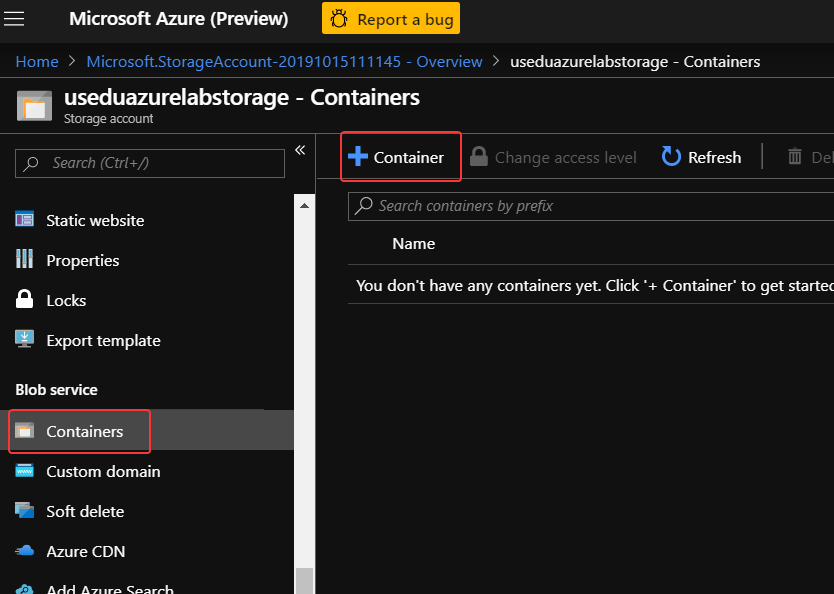
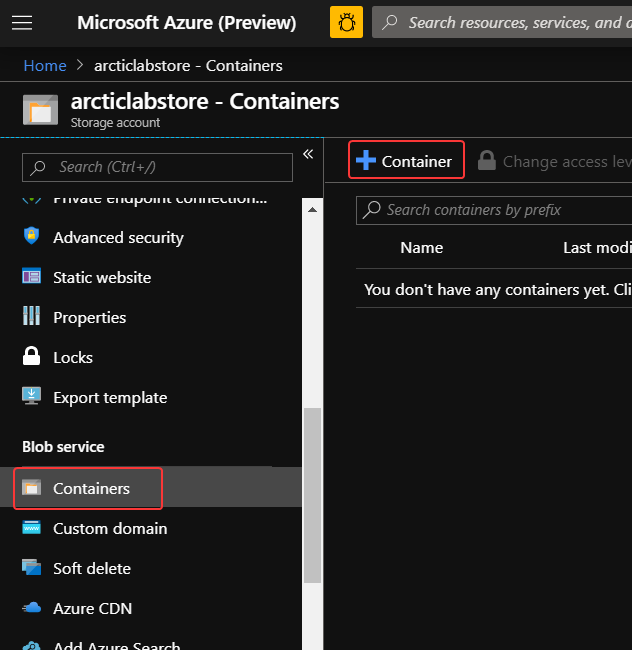
updating screenshots

diff --git a/ai-and-iot/create-a-storage-account.md b/ai-and-iot/create-a-storage-account.md
@@ -27,7 +27,7 @@ Azure Resources Groups are logical collections of Azure resources (e.g virtual m
 
 A general-purpose v2 storage account provides access to all of the Azure Storage services: blobs, files, queues, and tables. The quickstart creates a general-purpose v2 storage account but, the steps to create any type of storage account are similar.
 
-Storage account names must be unique, so make sure to replace "*useduazurelabstorage*" with a unique name.
+Storage account names must be unique, so make sure to replace "*arcticlabstore*" with a unique name.
 
 1. In the [Azure Portal](https://portal.azure.com), click the **+Create a resource** link at the top left of the page.
 1. In the Search field, type *Storage* and click on **Storage Account** that appears in the drop down list and click **Create.**
@@ -46,14 +46,12 @@ Storage account names must be unique, so make sure to replace "*useduazurelabsto
 
     ![Select Azure Resource Group](media/storage-3.png)
 
-1. Finally, also copy and paste the name of your storage account (e.g. *useduazurelabstorage*) into your text editor.
+1. Also copy and paste the name of your storage account (e.g. *arcticlabstore*) into your text editor.
 
 
 
 ## 3. Create a Blob container
 Before you can upload images to a storage account, you must create a blob container to store them in.
-1. Once the deployment of your storage account is complete, click the **Go to resource** button.
-![Go to your storage account](media/storage-4.png)
 1. From Storage Account overview, click on **Containers** in the left-hand blade, then click on the **+ Container** link. 
 ![Add a new container](media/storage-5.png)
 1. Enter in **photos** for the container name and set *Public access level* to **Blob (anonymous read access for blobs only)**. Then, click **OK**

diff --git a/ai-and-iot/connect-stream-analytics.md b/ai-and-iot/connect-stream-analytics.md
@@ -6,9 +6,10 @@ Now that we have our IoT hub connected to the blob container, let's connect a St
     ![Select Stream Analytics](media/connect-stream-analytics-1.png)
 
 1. Fill out the Stream Analytics Job deployment screen appropriately and click on **Create**
+
     | Field | Suggested Value  |
     |------|------|
-    |Job name |```polar-bear-analytics```|
+    |Job name |```arctic-analytics```|
     |Subscription |Your Azure Subscrription|
     |Resource Group |The resource group you're using for this lab.|
     |Location |Use the location nearest you.|
@@ -17,7 +18,7 @@ Now that we have our IoT hub connected to the blob container, let's connect a St
 
     ![Deploy Stream Analytics](media/connect-stream-analytics-2.png)
 
-1. Open the **polar-bear-analytics** Stream Analytics job in the portal. If the Stream Analytics job doesn't appear in the resource group, click the **Refresh** button at the top of the view until it does.
+1. Open the **arctic-analytics** Stream Analytics job in the portal. If the Stream Analytics job doesn't appear in the resource group, click the **Refresh** button at the top of the view until it does.
 1. Click **Inputs** in the left-side menu.
 1. Select **Add stream input > IoT Hub** to add an input to the Stream Analytics job.
 

diff --git a/ai-and-iot/create-azure-service-bus.md b/ai-and-iot/create-azure-service-bus.md
@@ -28,7 +28,7 @@ We will use an Azure Service Bus Queue as an Output for our Stream Analytics IoT
 
     ![Service Bus Form](media/service-bus-4.png)
 
-1. Set the Name to ```polar-bear-queue``` and leave all other fields as their default values. Then, click the **Create** button.
+1. Set the Name to ```arctic-queue``` and leave all other fields as their default values. Then, click the **Create** button.
     
     ![Service Bus Form](media/service-bus-5.png)
 

diff --git a/ai-and-iot/test-iot-hub-connectivity.md b/ai-and-iot/test-iot-hub-connectivity.md
@@ -61,7 +61,4 @@ We'll use a sample image for this test. The images that the simulated cameras wi
 
 1. Click photos to open the "**photos**" container, then verify that **image_19.jpg** exists in the container. 
 
-    ![Verify uploads](media/verify-upload-3.png)
-
-
 ### Next unit: [Connect a Stream Analytics job to IoT hub](connect-stream-analytics.md)
